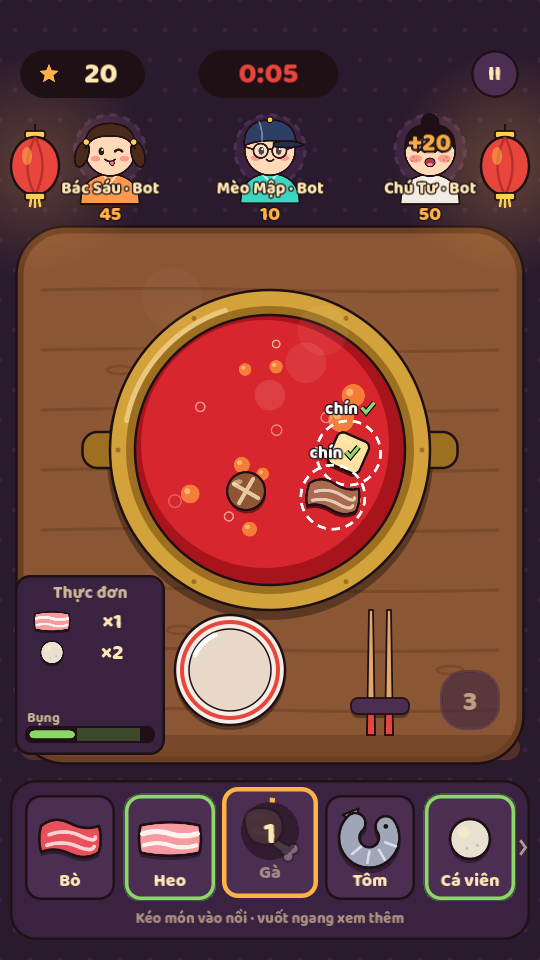
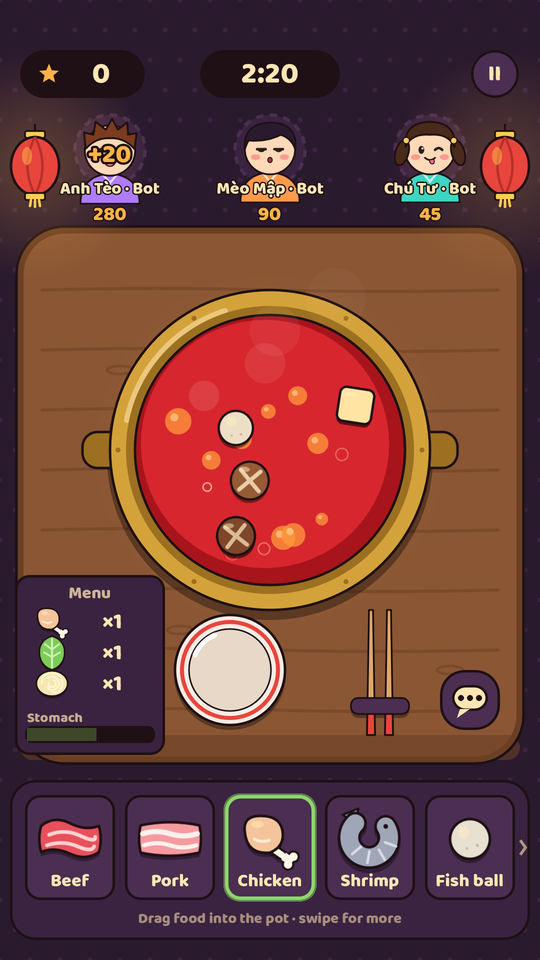
📝 docs: hotpot party english screenshots and privacy update

diff --git a/public/hotpot-party/privacy/index.html b/public/hotpot-party/privacy/index.html
@@ -35,12 +35,12 @@
 
 <article id="en" lang="en">
 <h1>Hotpot Party — Privacy Policy</h1>
-<p class="meta">iMango Studio · Effective date: 2026-10-08</p>
+<p class="meta">iMango Studio · Effective date: 2026-10-14</p>
 
 <p>Hotpot Party ("the game") is a multiplayer game made by iMango Studio ("we"), played on Android and in web browsers. This policy explains what data the game handles and why. We don't sell personal data.</p>
 
 <h2>1. Data stored on your device</h2>
-<p>Your display name, character look (hair, face, shirt), settings (music, sound, vibration), tutorial status and a session code to rejoin the table you were at are saved on your phone (web version: in your browser's storage). Uninstalling the game or clearing the site's data removes them.</p>
+<p>Your display name, character look (hair, face, shirt), settings (music, sound, vibration, language), tutorial status and a session code to rejoin the table you were at are saved on your phone (web version: in your browser's storage). Uninstalling the game or clearing the site's data removes them.</p>
 
 <h2>2. Data on the game's server</h2>
 <p>When you play online, the game connects to our server. The server stores:</p>
@@ -49,6 +49,7 @@
 <li><b>If you sign in with Google</b>: your Firebase user ID, and the email address and name of your Google account, so you can get back to the same account on another device. We never receive your password.</li>
 <li><b>Friends</b>: your friend code, friends list, friend requests and the players you blocked. Your friends can see when you are online and which table you are at.</li>
 <li><b>Round history</b>: table code, time, and each player's score, rank and title, used for profiles and stats.</li>
+<li><b>Game save</b>: the cosmetic items you unlocked and wear, your settings, daily gift days and seasonal event progress, so they follow your account.</li>
 </ul>
 <p>Players at your table see your display name, character, score, emotes and quick-chat lines. Chat only offers preset lines; there is no free-text input. Your IP address is used to connect and to limit abuse, and is not stored in our database.</p>
 
@@ -58,6 +59,7 @@
 <tr><th>Service</th><th>Why</th><th>Data</th></tr>
 <tr><td>Google AdMob (ads, Android version), with the Google User Messaging Platform (consent)</td><td>Show an interstitial ad when leaving the results screen, which keeps the game free; ask for consent where the law requires it</td><td>Advertising ID, device and app information, IP address (used to estimate approximate location), ad interactions</td></tr>
 <tr><td>Google Analytics for Firebase (Android) / Google Analytics (web)</td><td>Understand how players join tables, finish rounds and use the tutorial, to improve the game</td><td>App instance ID or Analytics cookie, game events (e.g. table joined / left, round finished, tutorial step, ad shown), device or browser model, OS, country derived from IP</td></tr>
+<tr><td>Firebase Crashlytics (Android version)</td><td>Find out when the game crashes or hits an error, so we can fix it</td><td>Crash and error reports (where in the code, the screen that was open, the game's latest log lines), device model, OS, game version, Crashlytics installation ID</td></tr>
 <tr><td>Firebase Authentication</td><td>Sign in with Google (only if you choose to)</td><td>Google account email, name, profile picture and ID</td></tr>
 <tr><td>Firebase Hosting</td><td>Serve the web version</td><td>IP address, browser (access logs)</td></tr>
 </table></div>
@@ -73,8 +75,8 @@
 
 <h2>5. Retention and deletion</h2>
 <ul>
-<li>Account, friends and round history data are kept while the account exists.</li>
-<li><b>Deleting your account in the game:</b> in the Lobby tap the account button (top right) → "Xoá tài khoản" (Delete account) → "Xoá vĩnh viễn" (Delete forever). The account, its sign-in identity (email, name), friends, requests and block list are deleted at once; in other players' round history your name is replaced with "Người chơi" (Player) and detached from the account. The sign-in record in Firebase Authentication (Google ID and email) is deleted at the same time on the web version; on Android we delete it within 30 days.</li>
+<li>Account, friends, round history and game save data are kept while the account exists.</li>
+<li><b>Deleting your account in the game:</b> in the Lobby tap the account button (top right) → "Delete account" ("Xoá tài khoản" in Vietnamese) → "Delete for good" ("Xoá vĩnh viễn"). The account, its sign-in identity (email, name), friends, requests, block list and game save are deleted at once; in other players' round history your name is replaced with "Người chơi" (Player) and detached from the account. The sign-in record in Firebase Authentication (Google ID and email) is deleted at the same time on the web version; on Android we delete it within 30 days.</li>
 <li><b>Or by email:</b> email us (below) from the address of your Google account, or include your friend code. We delete the same, including the sign-in record in Firebase Authentication, within 30 days.</li>
 <li>Analytics data is kept by Google for up to 14 months and is not linked to your name or email.</li>
 </ul>
